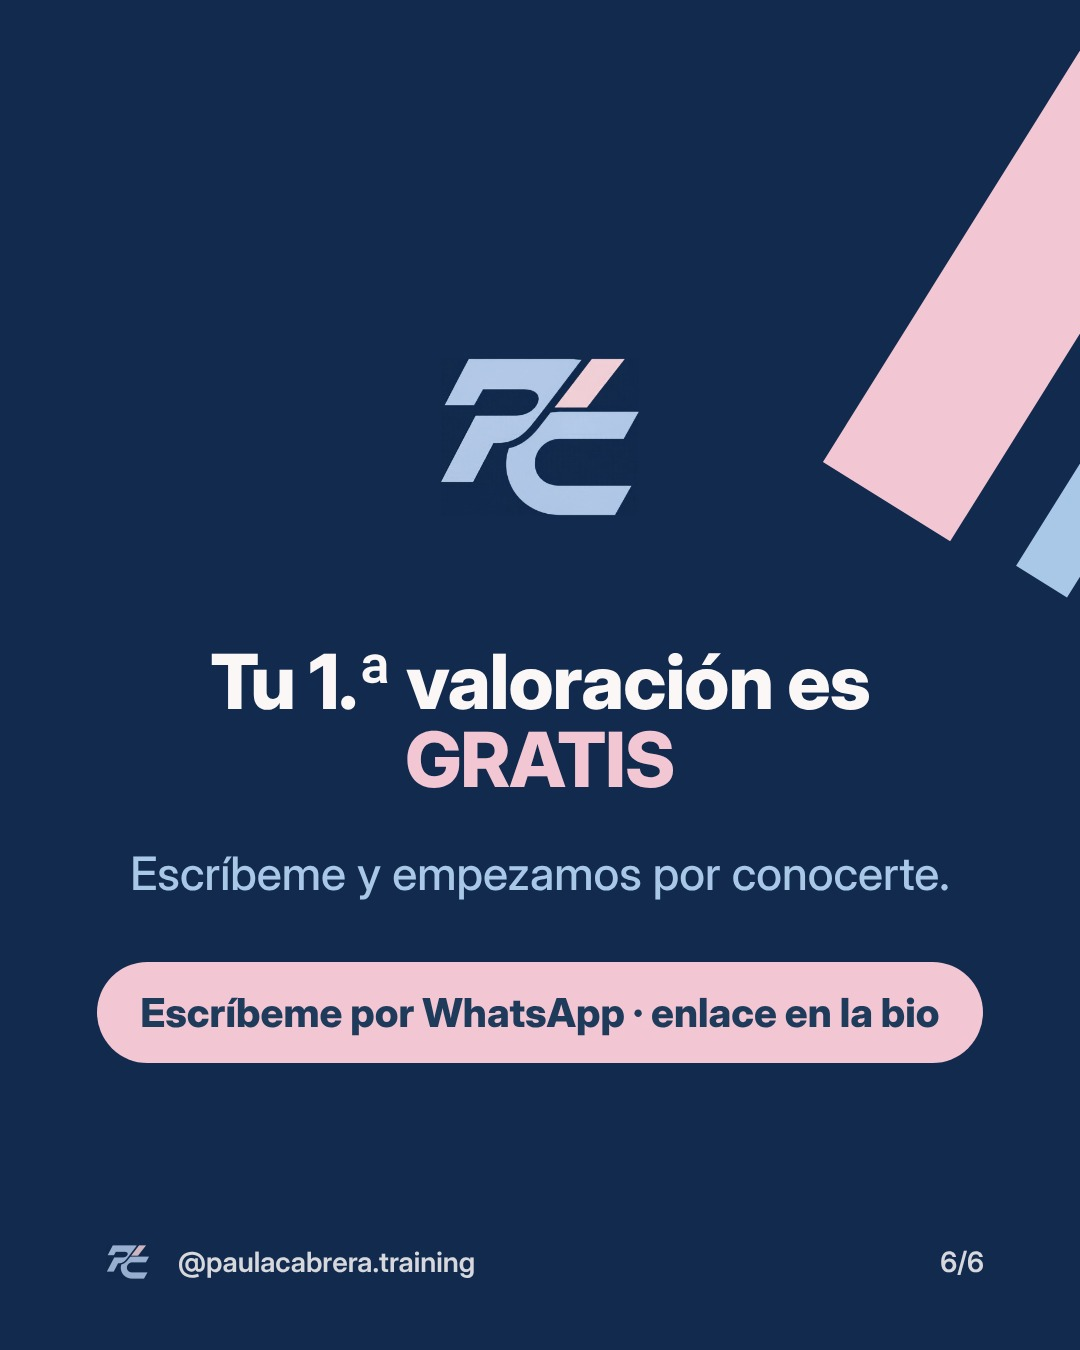
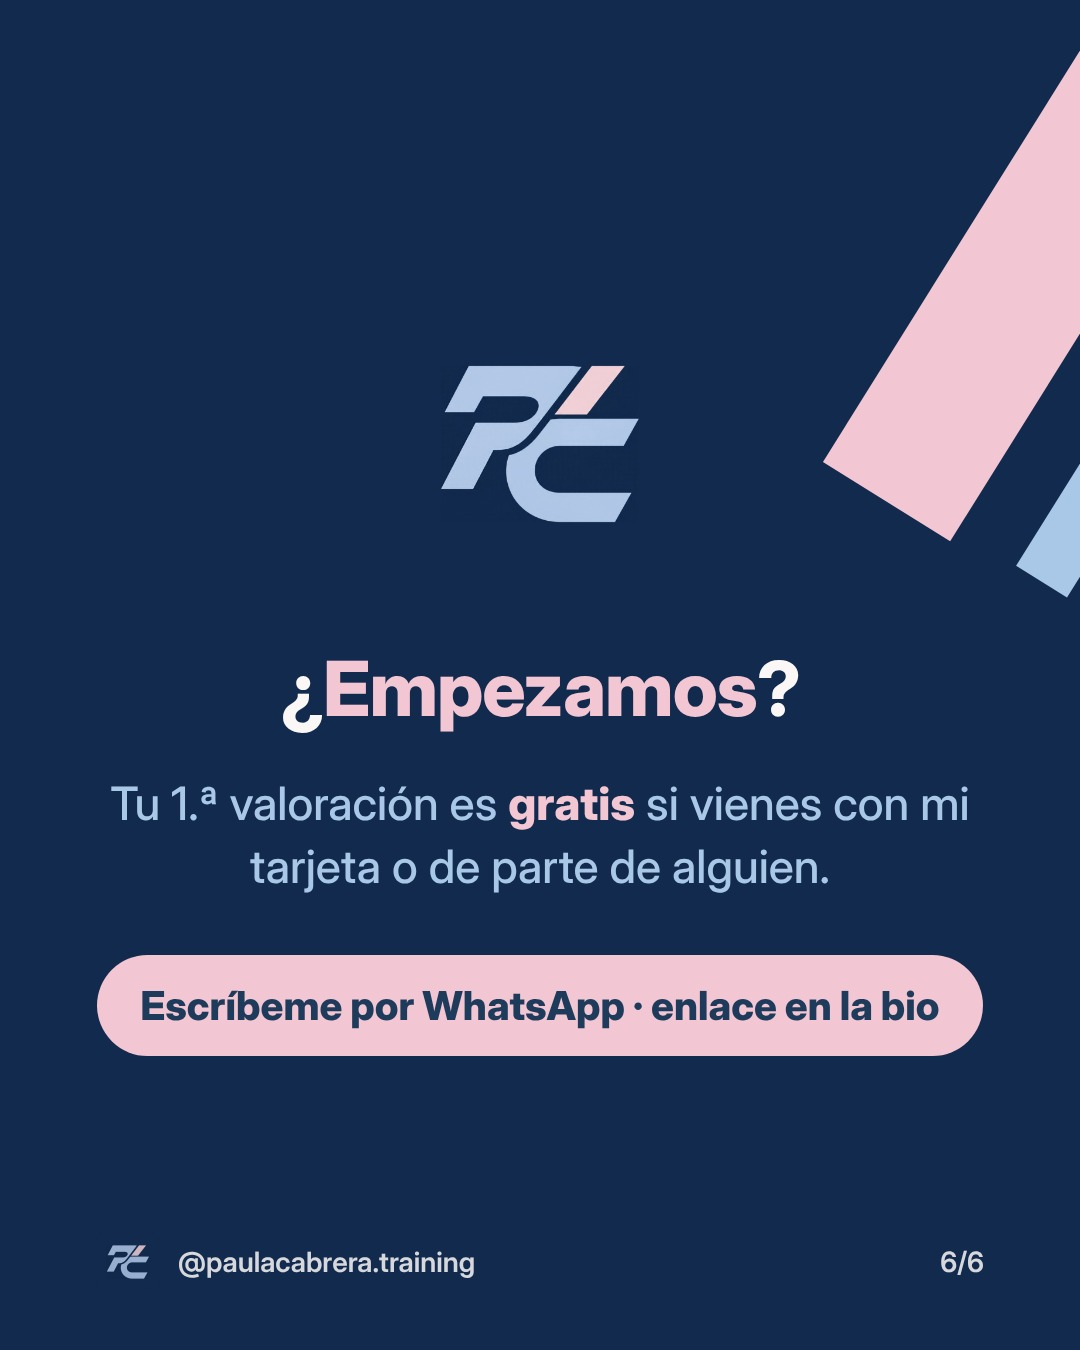
Post 3/11: cierre con valoración gratis solo con tarjeta o recomendación; negritas legibles en fondo oscuro
Claude-Session: https://claude.ai/code/session_0181mDtngFF3Ha5zVvAw8gYq

Changed region(s): [[0.0917, 0.4667, 0.9167, 0.8089], [0.3972, 0.2489, 0.5806, 0.4044], [0.0917, 0.56, 0.1222, 0.5911]]

diff --git a/instagram/render.js b/instagram/render.js
@@ -23,7 +23,7 @@ h2{font-weight:800;font-size:76px;line-height:1.02;letter-spacing:-1px;margin-bo
 .hl{color:${C.rosa}} .light .hl{color:${C.navy};background:linear-gradient(transparent 60%,${C.rosa} 60%)}
 .sub{font-size:44px;font-weight:600;color:${C.azul};margin-top:48px;line-height:1.25}
 .num{font-size:150px;font-weight:900;color:${C.rosa};line-height:1;margin-bottom:24px}
-.txt{font-size:46px;line-height:1.38;color:${C.gris};font-weight:500} .txt strong{color:${C.navy};font-weight:800}
+.txt{font-size:46px;line-height:1.38;color:${C.gris};font-weight:500} .txt strong{color:${C.navy};font-weight:800} .dark .txt strong{color:${C.rosa}}
 .pts{display:flex;flex-direction:column;gap:34px}
 .pt{display:flex;gap:28px;align-items:flex-start;font-size:46px;font-weight:600;line-height:1.25}
 .pt svg{flex:none;margin-top:4px}
